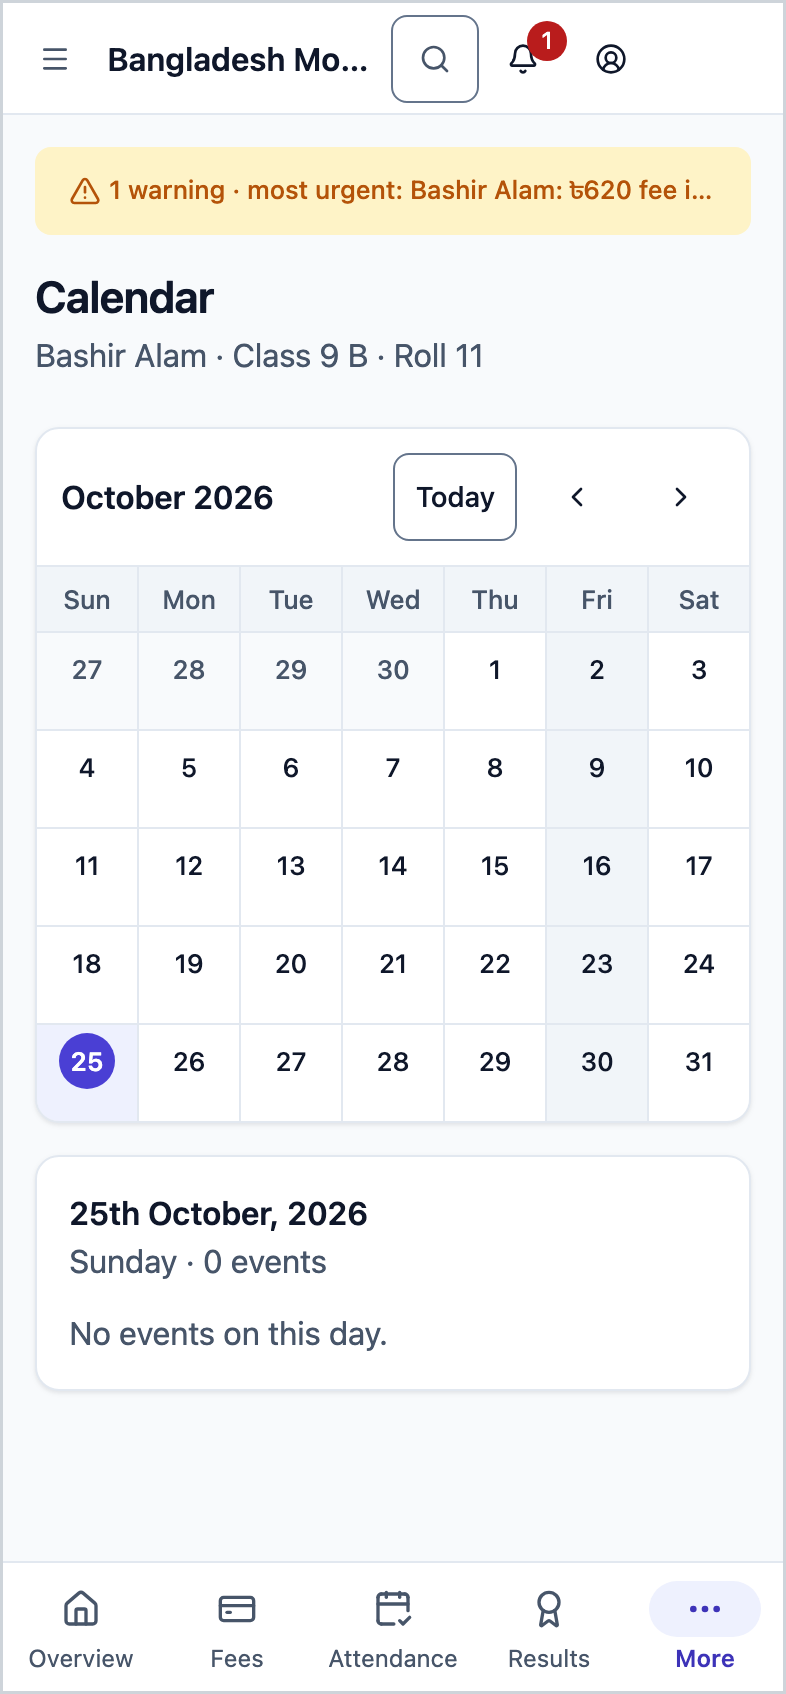
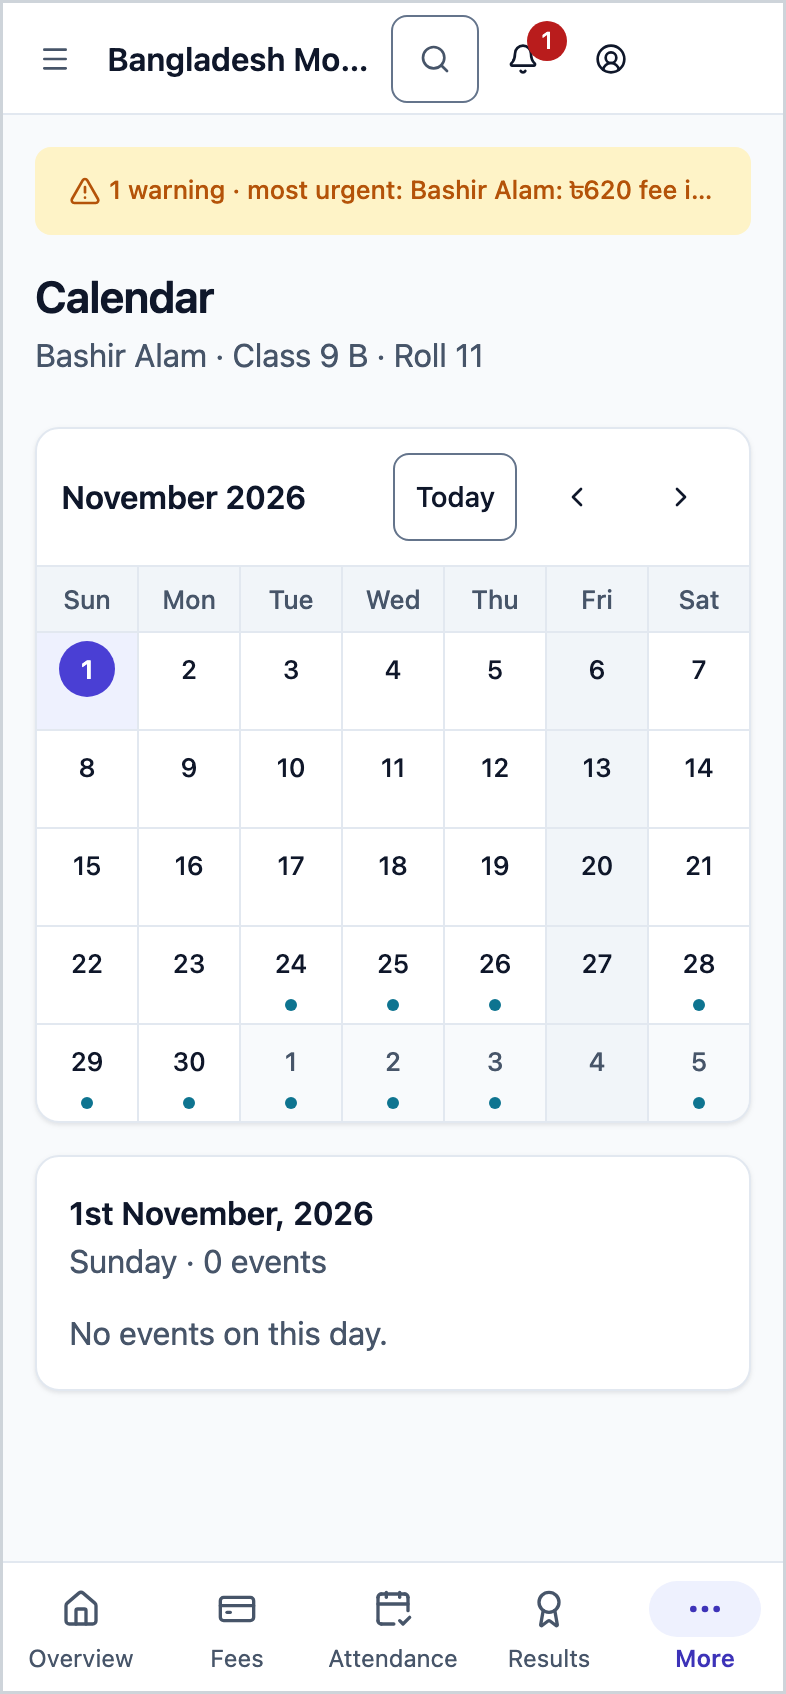
docs(guide): real screenshots (bn) for portal pages, en calendar on a month with events, alt text without numbered marks

diff --git a/e2e/docs/tours/pages.tour.ts b/e2e/docs/tours/pages.tour.ts
@@ -105,6 +105,10 @@ for (const [key, items] of groups) {
           await page.locator(`main a[href^="${e.route}/"]:not([href*="/new"])`).first().click({ timeout: 8000 });
           await settle(page);
         }
+        if (e.kind === 'day1') {
+          await page.locator('main').getByText(/^(24|২৪)$/).first().click({ timeout: 8000 });
+          await page.waitForTimeout(1200);
+        }
         if (e.kind === 'change2') {
           await page.locator('main button').filter({ hasText: /^(Change|পরিবর্তন করুন)$/ }).nth(1).click({ timeout: 8000 });
           await page.waitForTimeout(1200);

diff --git a/docs/user-guide/bn/portal/exam-schedule.md b/docs/user-guide/bn/portal/exam-schedule.md
@@ -70,7 +70,7 @@ knownIssues: []
 2. নিচে নামুন। প্রতিটি পরীক্ষার আলাদা কার্ড, মাথায় পরীক্ষার নাম আর প্রথম থেকে শেষ দিন।
 3. কার্ডের প্রতিটি সারিতে **তারিখ**, **সময়**, **বিষয়**, **স্থান**। সারি তারিখ আর শুরুর সময় ধরে সাজানো।
 
-<!-- image pending: পরীক্ষার সময়সূচি, একটি সামনের পরীক্ষা; ১ · পরবর্তী পরীক্ষা ২ · প্রবেশপত্র অংশ ৩ · বিষয়ের সারি; অভিভাবক, phone -->
+<img src="img/exam-schedule-01.png" alt="পরীক্ষার সময়সূচি, একটি সামনের পরীক্ষা" width="300">
 
 > **মনে রাখুন:** কোনো পরীক্ষা এখানে আসে কেবল যখন স্কুল তার সব বিষয়ের দিন-সময় ঠিক করে ফেলেছে। অর্ধেক ঠিক হওয়া সময়সূচি দেখায় না, তাই যা দেখছেন তা পুরো সময়সূচি।
 
@@ -97,7 +97,7 @@ knownIssues: []
 
 3. কিছু না খুললে দেখুন উপরে লেখা এসেছে কি না **এই সাইটের পপ-আপ চালু করে আবার চেষ্টা করুন।** ব্রাউজারে এই সাইটের পপ-আপ চালু করে আবার চাপুন।
 
-<!-- image pending: পরীক্ষার সময়সূচি, প্রবেশপত্র তৈরি অংশ আর প্রবেশপত্র প্রিন্ট করুন বোতাম; শিক্ষার্থী, phone -->
+<img src="img/exam-schedule-02.png" alt="ফোনে পরীক্ষার সময়সূচি, পরবর্তী পরীক্ষা" width="300">
 
 > **মনে রাখুন:** প্রতিবার প্রিন্ট চাপলে স্কুলের খাতায় একটি কপি হিসেবে লেখা থাকে। দরকার ছাড়া বারবার চাপবেন না; খুব ঘন ঘন চাপলে কিছুক্ষণ অপেক্ষা করতে হতে পারে।
 
@@ -159,7 +159,7 @@ knownIssues: []
 2. **পরবর্তী পরীক্ষা** কার্ড (কম্পিউটারে ডান পাশে)।
 3. প্রতি পরীক্ষার কার্ড: নাম, দিনের সীমা, প্রবেশপত্রের অংশ (পরীক্ষা বাকি থাকলে), আর বিষয়ের সারি।
 
-<!-- image pending: পরীক্ষার সময়সূচি, তিনটি অংশ নম্বর দিয়ে চিহ্নিত, একটি সারিতে শেষ হয়েছে; অভিভাবক, phone -->
+<img src="img/exam-schedule-03.png" alt="পরীক্ষার সময়সূচি, একটি সারি শেষ হয়েছে" width="300">
 
 </details>
 

diff --git a/docs/user-guide/bn/portal/calendar.md b/docs/user-guide/bn/portal/calendar.md
@@ -67,7 +67,7 @@ knownIssues: []
 2. যে দিনে কিছু আছে, ফোনে সেই দিনের ঘরে ছোট বিন্দু থাকে; কম্পিউটারে ঘরেই খবরের নাম লেখা থাকে। এক দিনে বেশি খবর থাকলে লেখা থাকে, যেমন **+২ আরও**।
 3. ক্যালেন্ডারের নিচে আজকের দিনের খবর দেখুন।
 
-<!-- image pending: ক্যালেন্ডার, চলতি মাস, দুটি ছুটি আর একটি পরীক্ষা; ১ · মাসের নাম আর তীর ২ · বিন্দু দেওয়া দিন ৩ · দিনের খবর; অভিভাবক, phone -->
+<img src="img/calendar-01.png" alt="ক্যালেন্ডার, নভেম্বর ২০২৬, ইভেন্টের জায়গায় বিন্দু" width="300">
 
 > **মনে রাখুন:** স্কুলের সাপ্তাহিক বন্ধের দিন আর সপ্তাহ কোন দিন থেকে শুরু, তা আপনার স্কুলের নিয়ম মেনে দেখায়।
 
@@ -149,7 +149,7 @@ knownIssues: []
 2. মাসের ক্যালেন্ডার, মাথায় মাস বদলানোর তীর।
 3. বাছা দিনের খবর।
 
-<!-- image pending: ক্যালেন্ডার, তিনটি অংশ নম্বর দিয়ে চিহ্নিত, একটি পরীক্ষার দিন বাছা; শিক্ষার্থী, phone -->
+<img src="img/calendar-02.png" alt="ক্যালেন্ডার, একটি পরীক্ষার দিন বাছা" width="300">
 
 </details>
 

diff --git a/docs/user-guide/bn/portal/results.md b/docs/user-guide/bn/portal/results.md
@@ -69,7 +69,7 @@ knownIssues: []
 2. কার্ডের মাথায় পরীক্ষার নাম, পাশে **উত্তীর্ণ** বা **অকৃতকার্য**, নিচে পরীক্ষার ধরন (**টার্ম**, **মাসিক**, **মডেল টেস্ট** বা **অন্যান্য**)।
 3. এর নিচে চারটি সংখ্যা: **জিপিএ**, **গ্রেড**, **মোট নম্বর**, **অবস্থান**।
 
-<!-- image pending: ফলাফল, দুটি পরীক্ষা, উপরেরটির বিষয়ভিত্তিক নম্বর খোলা; ১ · উত্তীর্ণ ২ · জিপিএ গ্রেড মোট নম্বর অবস্থান ৩ · বিষয়ের তালিকা; অভিভাবক, phone -->
+<img src="img/results-01.png" alt="ফলাফল, দুটি পরীক্ষা, উপরেরটির বিষয়ভিত্তিক নম্বর খোলা" width="300">
 
 > **মনে রাখুন:** স্কুল ফল **প্রকাশ** না করা পর্যন্ত কোনো পরীক্ষা এখানে আসে না, নম্বর তোলা হয়ে গেলেও না। প্রকাশের পরেই কার্ড আসে।
 
@@ -154,7 +154,7 @@ knownIssues: []
 3. **বিষয়ভিত্তিক নম্বর দেখুন** আর **প্রিন্ট করুন** বোতাম।
 4. খোলা থাকলে বিষয়ের তালিকা।
 
-<!-- image pending: ফলাফল, চারটি অংশ নম্বর দিয়ে চিহ্নিত; শিক্ষার্থী, desktop -->
+![ফলাফল পাতা](img/results-02.png)
 
 </details>
 

diff --git a/docs/user-guide/bn/portal/account.md b/docs/user-guide/bn/portal/account.md
@@ -81,7 +81,7 @@ knownIssues: []
 
    → যে ডিভাইসগুলোতে আপনি সাইন ইন আছেন, তার তালিকা। এখনকারটির পাশে **এই ডিভাইস**, তারপর সবচেয়ে সাম্প্রতিক। প্রথমে ৫টি দেখায়; বেশি থাকলে **সব ৮টি ডিভাইস দেখুন** চাপুন।
 
-<!-- image pending: img/portal-account-01-devices.png (width 300) — ফোনে ডিভাইসসমূহ কার্ড: ১ এই ডিভাইস, ২ অন্য ডিভাইসের সাইন আউট, ৩ সব জায়গা থেকে সাইন আউট -->
+<img src="img/account-01.png" alt="ফোনে ডিভাইসসমূহ কার্ড" width="300">
 
 3. হারানো ফোনের সারিতে **সাইন আউট** চাপুন।
 
@@ -101,7 +101,7 @@ knownIssues: []
 
 2. নতুন নম্বর বা ইমেইল লিখুন। **বর্তমান পাসওয়ার্ড** লিখুন। **চালিয়ে যান** চাপুন।
 
-<!-- image pending: img/portal-account-02-contact.png (width 300) — ফোনে ফোন নম্বর পরিবর্তন করুন: ১ নতুন ফোন নম্বর, ২ বর্তমান পাসওয়ার্ড, ৩ চালিয়ে যান -->
+<img src="img/account-02.png" alt="ফোনে ফোন নম্বর পরিবর্তন করুন" width="300">
 
 3. **ফোন হলে:** নতুন নম্বরে ৬ সংখ্যার কোড যায়। **যাচাইকরণ কোড** ঘরে লিখে **নিশ্চিত করুন** চাপুন।
 

diff --git a/docs/user-guide/bn/portal/overview.md b/docs/user-guide/bn/portal/overview.md
@@ -87,7 +87,7 @@ knownIssues: []
 
    → [**ফি ও চালান**](fees.md) পাতা খোলে, ঐ সন্তান আগে থেকে বাছা।
 
-<!-- image pending: সারসংক্ষেপ, দুই সন্তানের অভিভাবক; ১ · মোট বকেয়া ২ · আজ স্কুলে ৩ · আপনার সন্তানেরা কার্ড ৪ · এ মাসের উপস্থিতি; অভিভাবক, phone -->
+<img src="img/overview-01.png" alt="অভিভাবকের সারসংক্ষেপ পাতা" width="300">
 
 > **মনে রাখুন:** একাধিক সন্তান হলে **মোট বকেয়া** শুধু তাদের যোগ করে যাদের কিছু বাকি আছে। নিচে লেখা থাকে, যেমন **৩ জনের মধ্যে ২ জনের**। যার কিছু বাকি নেই, তার কার্ডও থাকে, লেখা **কোনো বকেয়া নেই**।
 
@@ -189,7 +189,7 @@ knownIssues: []
 4. **এ মাসের উপস্থিতি**।
 5. **আজকের হোমওয়ার্ক**, **সর্বশেষ ফল**, **পরের ছুটি**।
 
-<!-- image pending: সারসংক্ষেপ, এক সন্তান, পাঁচটি অংশ নম্বর দিয়ে চিহ্নিত; শিক্ষার্থী, phone -->
+<img src="img/overview-02.png" alt="এক সন্তানের সারসংক্ষেপ পাতা" width="300">
 
 </details>
 

diff --git a/docs/user-guide/bn/portal/attendance.md b/docs/user-guide/bn/portal/attendance.md
@@ -65,7 +65,7 @@ knownIssues: []
 
 2. নিচে মাসের ক্যালেন্ডার দেখুন। প্রতিটি দিনের রং বলে সেদিন কী হয়েছিল।
 
-<!-- image pending: উপস্থিতি, চলতি মাস; ১ · উপস্থিতির হার আর চার ঘর ২ · মাসের ক্যালেন্ডার ৩ · দিনের বিবরণ; অভিভাবক, phone -->
+<img src="img/attendance-01.png" alt="উপস্থিতি, চলতি মাস" width="300">
 
 > **মনে রাখুন:** মাসে কোনো দিনই চিহ্নিত না হলে হারের জায়গায় শুধু একটি ড্যাশ (—) আর লেখা **এই মাসে পর্যাপ্ত রেকর্ড চিহ্নিত হয়নি**। এর মানে ০% নয়; শিক্ষক এখনো উপস্থিতি নেননি।
 
@@ -146,7 +146,7 @@ knownIssues: []
 3. মাসের ক্যালেন্ডার, মাথায় মাস বদলানোর তীর।
 4. বাছা দিনের বিবরণ।
 
-<!-- image pending: উপস্থিতি, চারটি অংশ নম্বর দিয়ে চিহ্নিত, একটি বিলম্বিত দিন বাছা; শিক্ষার্থী, desktop -->
+![উপস্থিতি, একটি দিন বাছা](img/attendance-02.png)
 
 </details>
 

diff --git a/docs/user-guide/bn/portal/routine.md b/docs/user-guide/bn/portal/routine.md
@@ -65,7 +65,7 @@ knownIssues: []
 
    → প্রতিটি পিরিয়ডে বিষয়ের নাম, শুরুর সময় আর **… পর্যন্ত**, নিচে **পিরিয়ড …** আর কক্ষ (স্কুল দিয়ে থাকলে)।
 
-<!-- image pending: রুটিন, আজকের ট্যাব; ১ · দিনের ট্যাব ২ · পিরিয়ড সংখ্যা ৩ · একটি বদলি শিক্ষক পিরিয়ড; অভিভাবক, phone -->
+<img src="img/routine-01.png" alt="ফোনে আজকের রুটিন" width="300">
 
 > **মনে রাখুন:** বিষয়ের নাম আসে আপনি যে ভাষায় পোর্টাল দেখছেন সেই ভাষায়; সে ভাষায় নাম না থাকলে অন্য ভাষার নামটি দেখায়।
 
@@ -132,7 +132,7 @@ knownIssues: []
 2. সাত দিনের ট্যাব, আজ থেকে।
 3. বাছা দিনের পিরিয়ড সংখ্যা আর পিরিয়ডের তালিকা।
 
-<!-- image pending: রুটিন, তিনটি অংশ নম্বর দিয়ে চিহ্নিত, একটি বাতিল পিরিয়ড; শিক্ষার্থী, phone -->
+<img src="img/routine-02.png" alt="রুটিন, একটি বাতিল পিরিয়ড" width="300">
 
 </details>
 

diff --git a/docs/user-guide/bn/portal/fees.md b/docs/user-guide/bn/portal/fees.md
@@ -76,7 +76,7 @@ knownIssues: []
 
    → প্রতিটি মাস আলাদা, নতুন মাস আগে। প্রতি মাসে **ধার্য**, **ছাড়**, **পরিশোধিত**, **বকেয়া** আর **অবস্থা**; নিচে **শেষ তারিখ …**।
 
-<!-- image pending: ফি ও চালান, এক সন্তান; ১ · বকেয়া আর ধার্য/ছাড়/পরিশোধিত ২ · মাসভিত্তিক হিসাব ৩ · চালান ও প্রিন্ট; অভিভাবক, phone -->
+<img src="img/fees-01.png" alt="ফি ও চালান, এক সন্তান" width="300">
 
 > **মনে রাখুন:** পুরো শোধ করা মাসও তালিকায় থাকে, বকেয়া ঘরে ০, যাতে কত ধার্য হয়েছিল তা দেখতে পান।
 
@@ -179,7 +179,7 @@ knownIssues: []
 5. **চালান**, প্রতিটির পাশে **প্রিন্ট করুন**।
 6. পাশে বা নিচে **জমা টাকা** আর **পুনরাবৃত্ত ফি** (থাকলে)।
 
-<!-- image pending: ফি ও চালান, দুই সন্তান, ছয়টি অংশ নম্বর দিয়ে চিহ্নিত; অভিভাবক, desktop -->
+![ডেস্কটপে ফি ও চালান পাতা](img/fees-02.png)
 
 </details>
 

diff --git a/docs/user-guide/bn/portal/notifications.md b/docs/user-guide/bn/portal/notifications.md
@@ -61,7 +61,7 @@ knownIssues: []
 
    → ছোট প্যানেল খোলে: **আপনার মনোযোগ দরকার**, নিচে প্রথম কয়েকটি সতর্কতা।
 
-<!-- image pending: img/portal-notifications-01-bell.png (width 300) — ফোনে ঘণ্টার প্যানেল: ১ ঘণ্টার সংখ্যা, ২ একটি সতর্কতা, ৩ সব করণীয় দেখুন -->
+<img src="img/notifications-01.png" alt="ফোনে ঘণ্টার প্যানেল" width="300">
 
 2. **সব করণীয় দেখুন** চাপুন।
 
@@ -71,7 +71,7 @@ knownIssues: []
 
    → যে পাতায় কাজটি হয়, সেটি খোলে। কাজ শেষ হলে সতর্কতা নিজে থেকে সরে যায়।
 
-<!-- image pending: img/portal-notifications-02-list.png (width 300) — ফোনে করণীয় তালিকা: ১ করণীয় ও ইতিহাস ট্যাব, ২ সন্তান বাছাই, ৩ একটি সতর্কতার কার্ড ও কাজের বোতাম -->
+<img src="img/notifications-02.png" alt="ফোনে করণীয় তালিকা" width="300">
 
 ---
 

diff --git a/docs/user-guide/bn/portal/applications.md b/docs/user-guide/bn/portal/applications.md
@@ -89,7 +89,7 @@ knownIssues: []
 
    → **নতুন আবেদন** পাতা খোলে। উপরে লেখা থাকে **ধাপ ১ / ৪**।
 
-<!-- image pending: img/portal-applications-01-list.png (width 300) — ফোনে আবেদনের তালিকা: ১ নতুন আবেদন বোতাম, ২ একটি আবেদনের কার্ড ও তার অবস্থা -->
+<img src="img/applications-01.png" alt="ফোনে আবেদনের তালিকা" width="300">
 
 2. **কিসের জন্য আবেদন করতে চান?** থেকে একটি ধরন চাপুন, তারপর **পরবর্তী**।
 
@@ -144,7 +144,7 @@ knownIssues: []
 
 চিঠি কাগজে লাগলে পাতার **প্রিন্ট** চাপুন।
 
-<!-- image pending: img/portal-applications-03-detail.png (width 300) — ফোনে আবেদনের পাতা: ১ অবস্থা, ২ ধাপ, ৩ কার্যক্রম, ৪ তুলে নিন -->
+<img src="img/applications-03.png" alt="ফোনে আবেদনের পাতা" width="300">
 
 ### আবেদন তুলে নিন <a href="#task-withdraw" id="task-withdraw"></a>
 

diff --git a/docs/user-guide/bn/portal/syllabus.md b/docs/user-guide/bn/portal/syllabus.md
@@ -63,7 +63,7 @@ knownIssues: []
 
    → পরীক্ষার নাম, **২০ নভেম্বর থেকে · সিলেবাসের কতটা পড়ানো হলো**। প্রতিটি বিষয়ের নিচে একটি বার, যেমন **৬/১০টি পাঠ**।
 
-<!-- image pending: img/portal-syllabus-01-overview.png (width 300) — ফোনে সিলেবাস পাতা: ১ পরীক্ষার কার্ড, ২ সবচেয়ে পিছিয়ে থাকা বিষয়, ৩ অন্য বিষয়ের তালিকা -->
+<img src="img/syllabus-01.png" alt="ফোনে সিলেবাস পাতা" width="300">
 
 3. নিচের খোলা কার্ডটি দেখুন।
 
